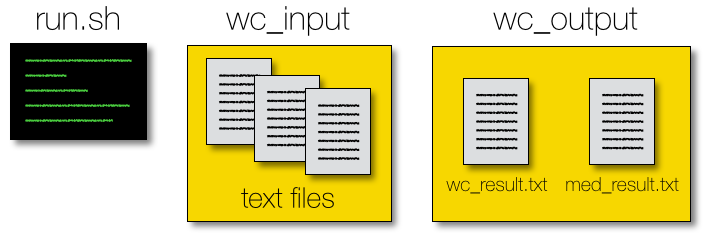
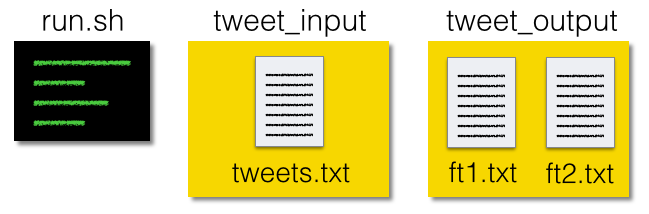
new pic

diff --git a/README.md b/README.md
@@ -67,17 +67,20 @@ since the number of unique words in each tweet is 11, 14, and 17 respectively.  
 - Each tweet only contains lowercase letters, numbers, and ASCII characters like ':', '@', and '#'.
 - A word is defined as anything separated by whitespace. 
 
-Note that the output of the first feature is outputted in order according to the [ASCII Code](http://www.ascii-code.com).  Also recall, that the median of a set with an even number of items is the mean of the two middle elements (e.g. the median of {11, 14} is 12.5).
+Note that the output of the first feature is outputted in order, according to the [ASCII Code](http://www.ascii-code.com).  Also recall, that the median of a set with an even number of items is the mean of the two middle elements (e.g. the median of {11, 14} is 12.5).
 
 ## Details of Implementation
 
-We'd like you to implement your own version of this running median that calculates the median number of words per line, for each line of the text files in the `wc_input` directory.  If there are multiple files in that directory, the files should be combined into a single stream and processed by your running median program in alphabetical order, so a file named `hello.txt` should be processed before a file named `world.txt`.  The resulting running median for each line should then be outputted to a text file named `med_result.txt` in the `wc_output` directory.
+We'd like you to implement your own version of these features 
 
-You may write your solution in any one of the following programming languages: C, C++, Clojure, Java, Python, Ruby, or Scala - then submit a link to a Github repo with your source code.  In addition to the source code, the top-most directory of your repo must include `wc_input` and `wc_output` directories, and a shell script named `run.sh` that compiles and runs the Word Count and Running Median programs.  If your solution requires additional libraries or dependencies, the shell script should load them first so that your programs can be run on any system just by running `run.sh`.  See the figure below for the required structure of the top-most directory in your repo, or simply clone this repo.
+
+ for each line of the text files in the `wc_input` directory.  If there are multiple files in that directory, the files should be combined into a single stream and processed by your running median program in alphabetical order, so a file named `hello.txt` should be processed before a file named `world.txt`.  The resulting running median for each line should then be outputted to a text file named `med_result.txt` in the `wc_output` directory.
+
+You may write your solution in any mainstream programming language such as C, C++, C#, Clojure, Haskell, Java, Python, Ruby, or Scala - then submit a link to a Github repo with your source code.  In addition to the source code, the top-most directory of your repo must include `tweet_input` and `tweet_output` directories, and a shell script named `run.sh` that compiles and runs the program(s) that implement these features.  If your solution requires additional libraries, environments, or dependencies, you must specify these in your README documentation.  See the figure below for the required structure of the top-most directory in your repo, or simply clone this repo.
 
 ![Example Repo Structure](images/directory-pic.png)
 
-As a data engineer, it’s important that you write clean, well-documented code that scales for large amounts of data.  For this reason, it’s important to ensure that your solution works well for small and large text files, rather than just the simple examples above.  For example, your solution should be able to process large files like the text of the book "War and Peace" without taking much longer than processing the small files.
+As a data engineer, it’s important that you write clean, well-documented code that scales for large amounts of data.  For this reason, it’s important to ensure that your solution works well for a huge number of tweets, rather than just the simple examples above.  For example, your solution should be able to process a file containing every tweet from the last month without taking much longer than processing only the last hour of tweets.
 
 
 ## FAQ
